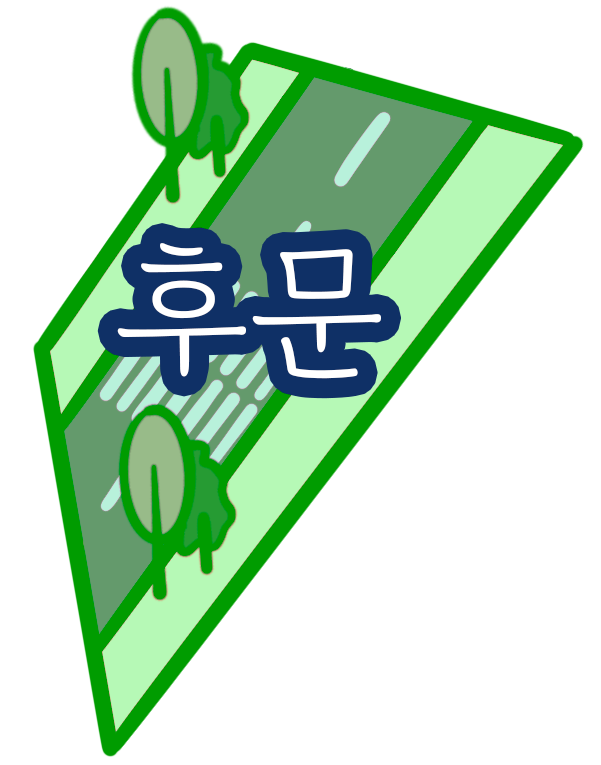
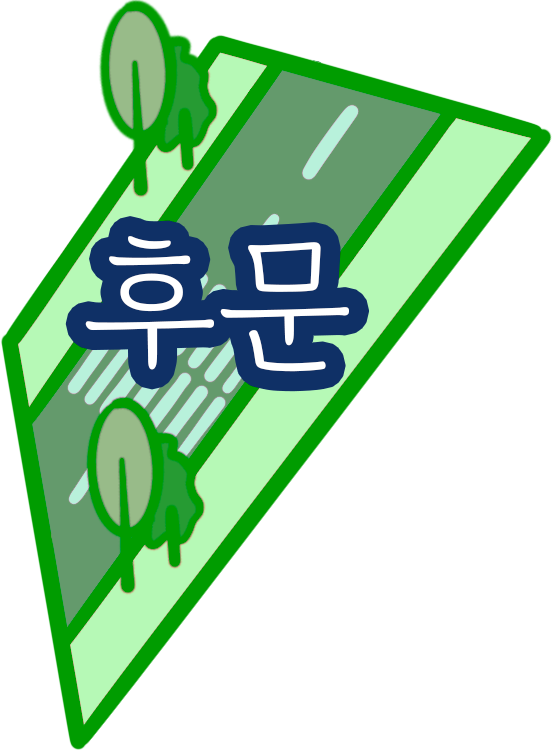
fix/ 홈 화면 아현 호버링

Changed region(s): [[0.0, 0.0, 1.0, 1.0], [0.7378, 0.2141, 0.7685, 0.2447]]

diff --git a/templates/home.html b/templates/home.html
@@ -43,7 +43,7 @@
         </a>
 
         <a href="/restaurant/list" class="mapbtn_ahyeon">
-          <img class="ahyeon_img" src="/static/아현.png" height="150px" />
+          <img class="ahyeon_img" src="/static/아현.png" height="150px" onmouseover="this.src='/static/아현 호버.png'" onmouseout="this.src='/static/아현.png'">
         </a>
 
         <!-- 맛집등록하기 버튼-->
